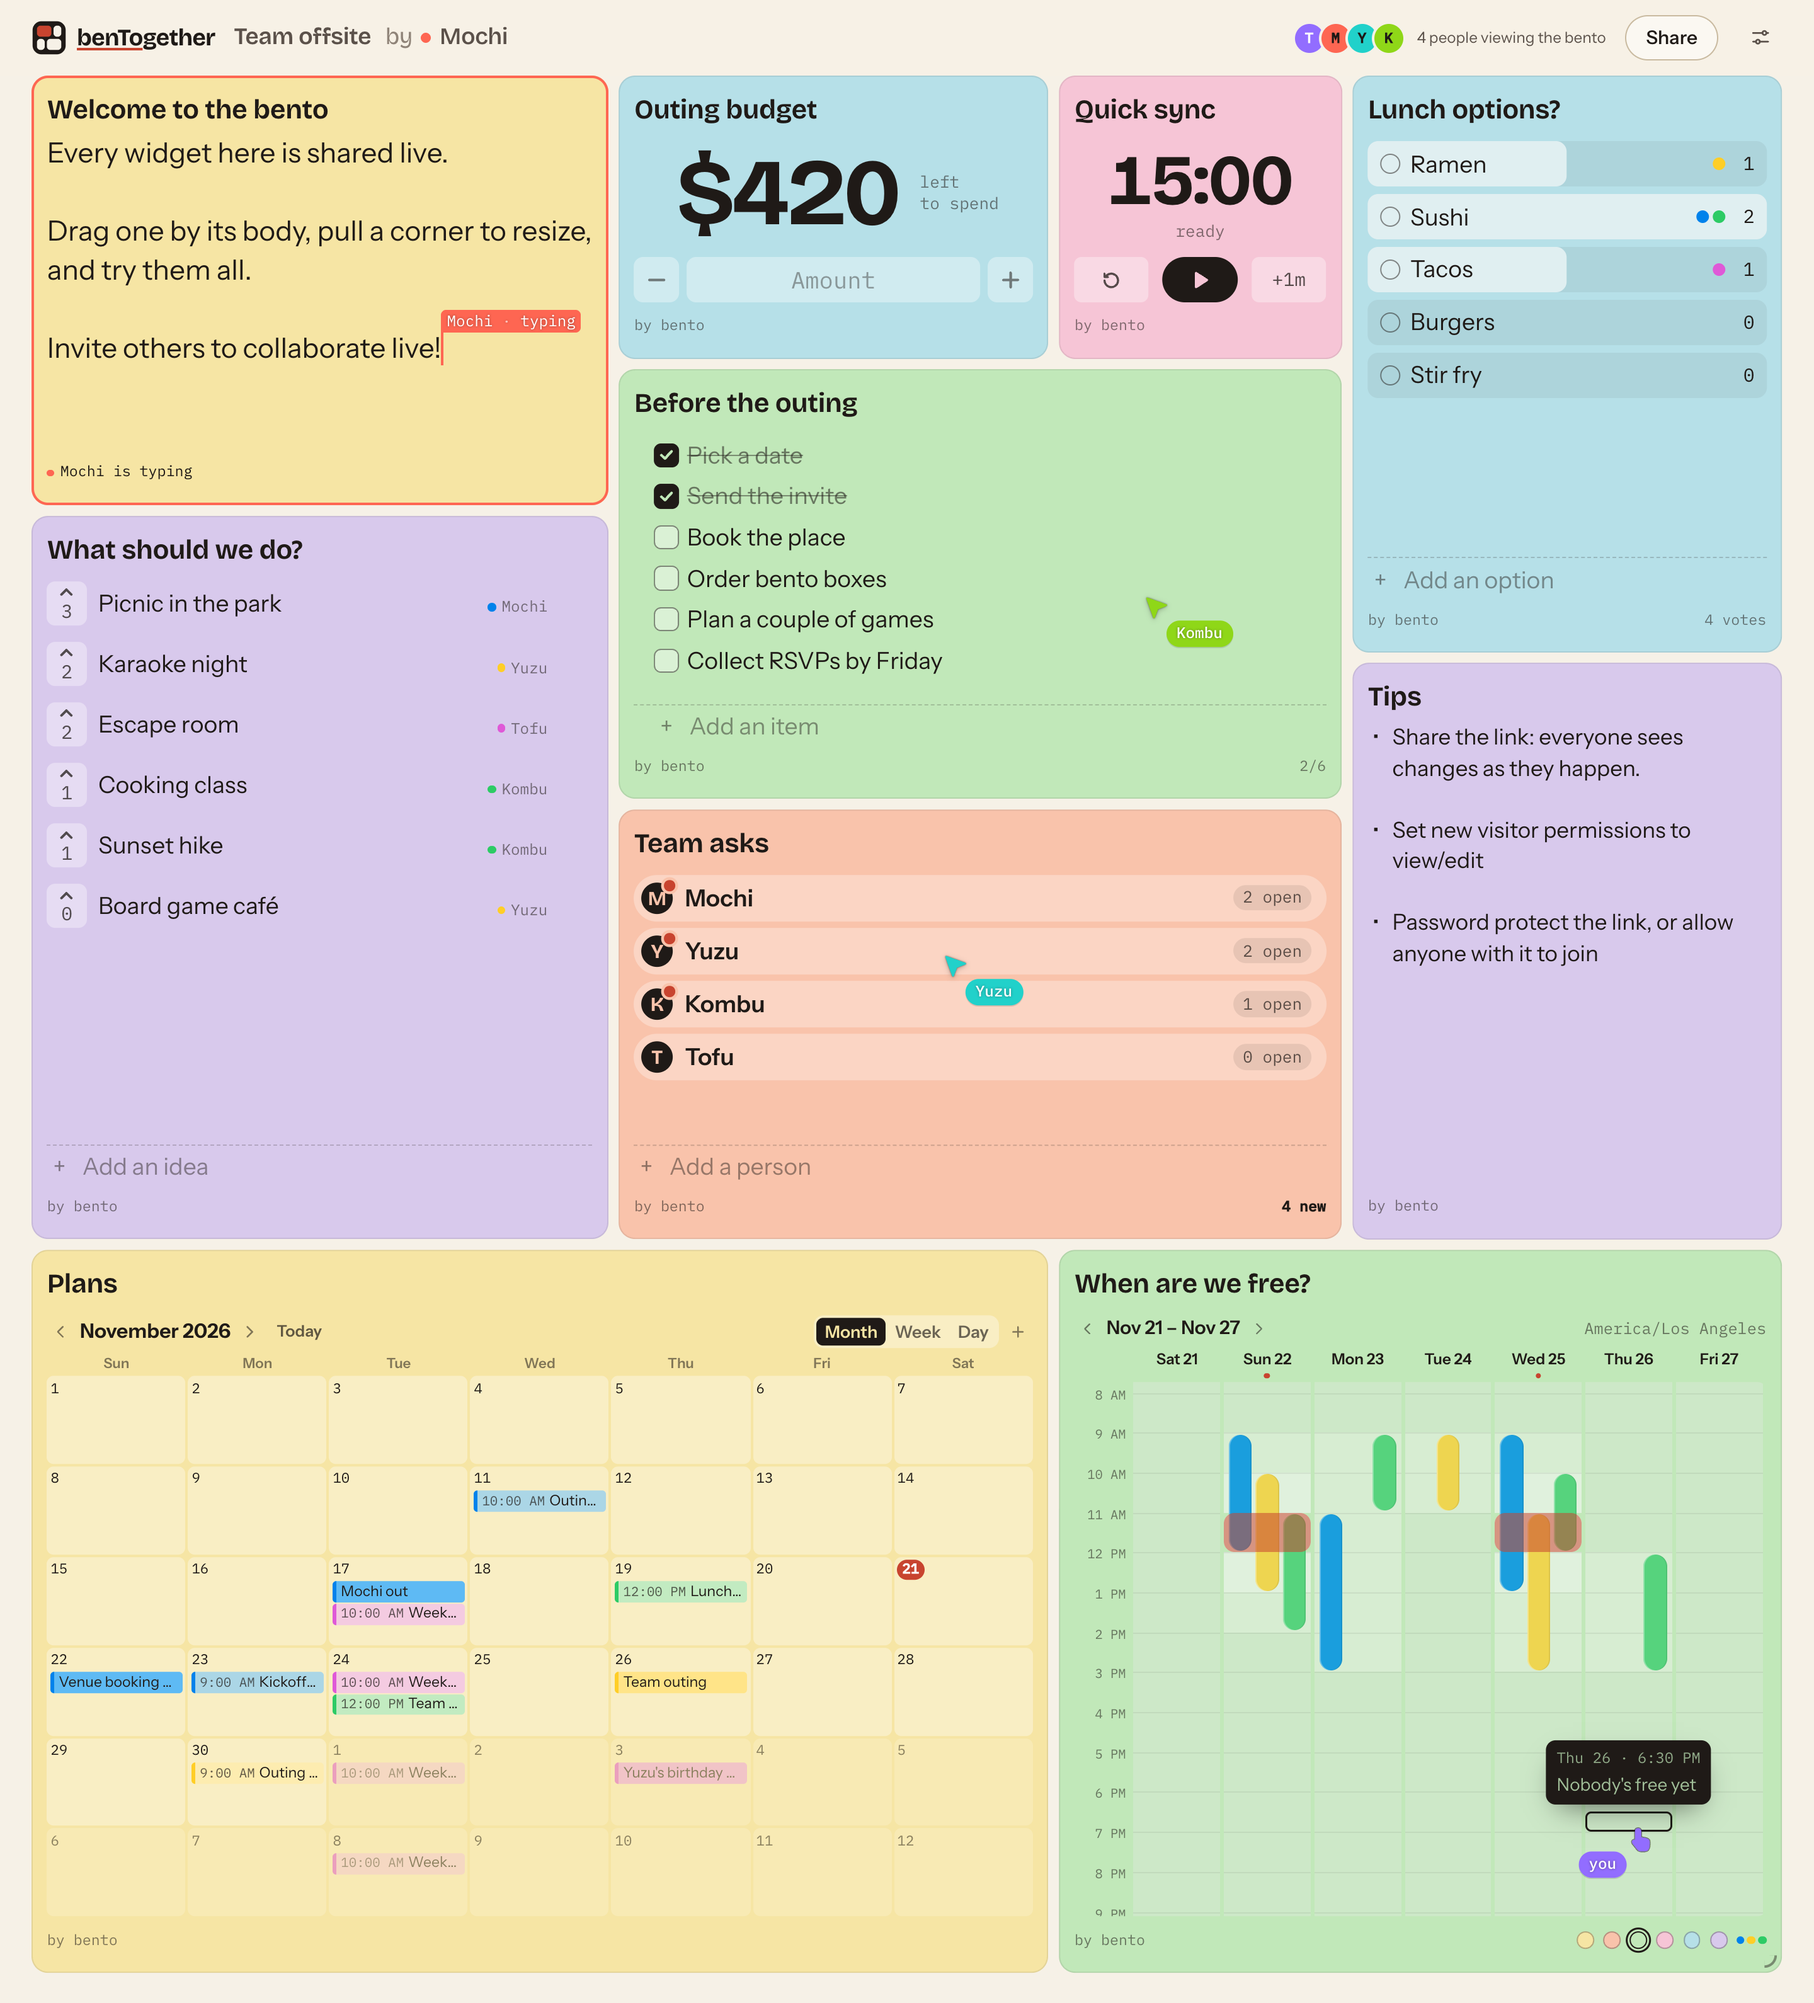
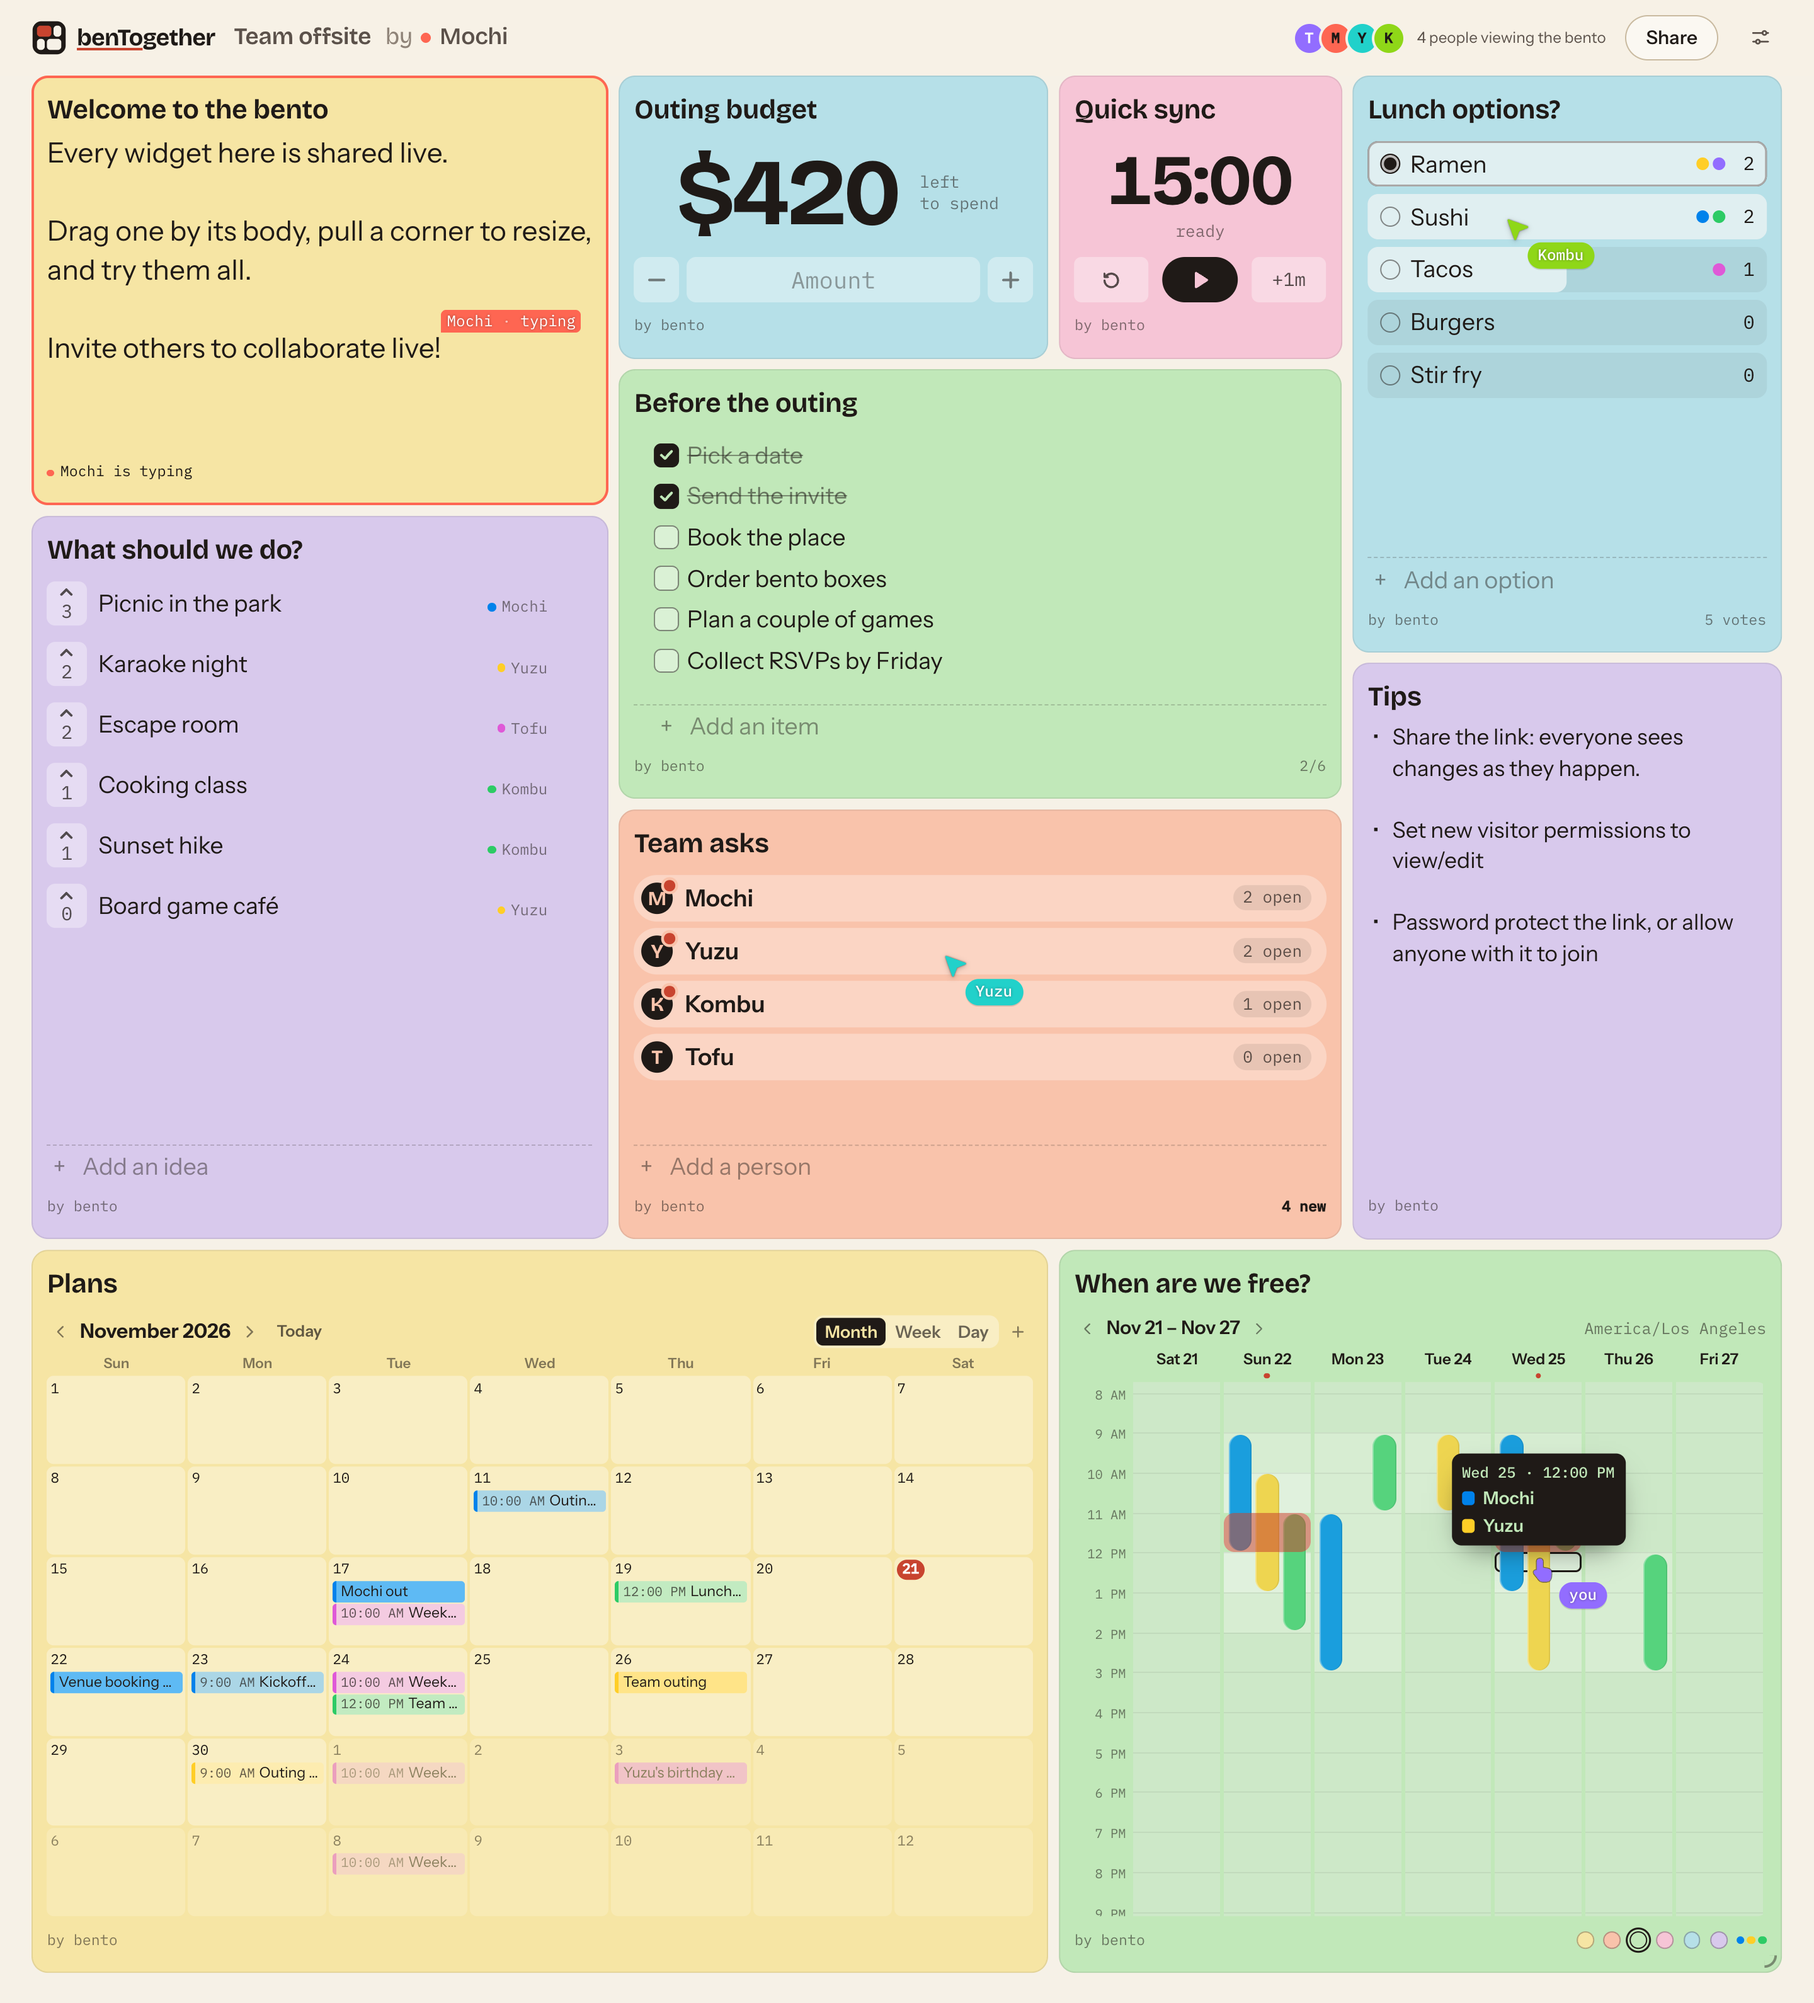
Brighter free-times pop-up date; README tagline as h3; new screenshot scene
- The date and time in the free-times pop-up show at full strength.
- The README tagline is an italic h3 under the title.
- Screenshots: Tofu votes for Ramen and hovers Wednesday noon; Kombu is
  about to vote for Sushi.

diff --git a/apps/web/src/board/widgets/freetimes/FreeTimes.module.css b/apps/web/src/board/widgets/freetimes/FreeTimes.module.css
@@ -277,17 +277,18 @@ tbody tr:first-child .cell::before {
   }
 }
 
+/* The widget's own pastel on the dark pop, at full strength so the small
+   mono date reads as easily as the names. */
 .popTime {
   margin: 0 0 0.3em;
   font-family: var(--font-mono);
   font-size: 0.85em;
-  opacity: 0.7;
+  font-weight: 500;
   white-space: nowrap;
 }
 
 .popEmpty {
   margin: 0;
-  opacity: 0.8;
 }
 
 .popList {

diff --git a/README.md b/README.md
@@ -3,7 +3,7 @@
   benTogether
 </h1>
 
-_Pack ideas into a bento together._
+### _Pack ideas into a bento together._
 
 A live, multiplayer bento board. Share a link and everyone can contribute to notes, tasks, polls, events, and more.
 
